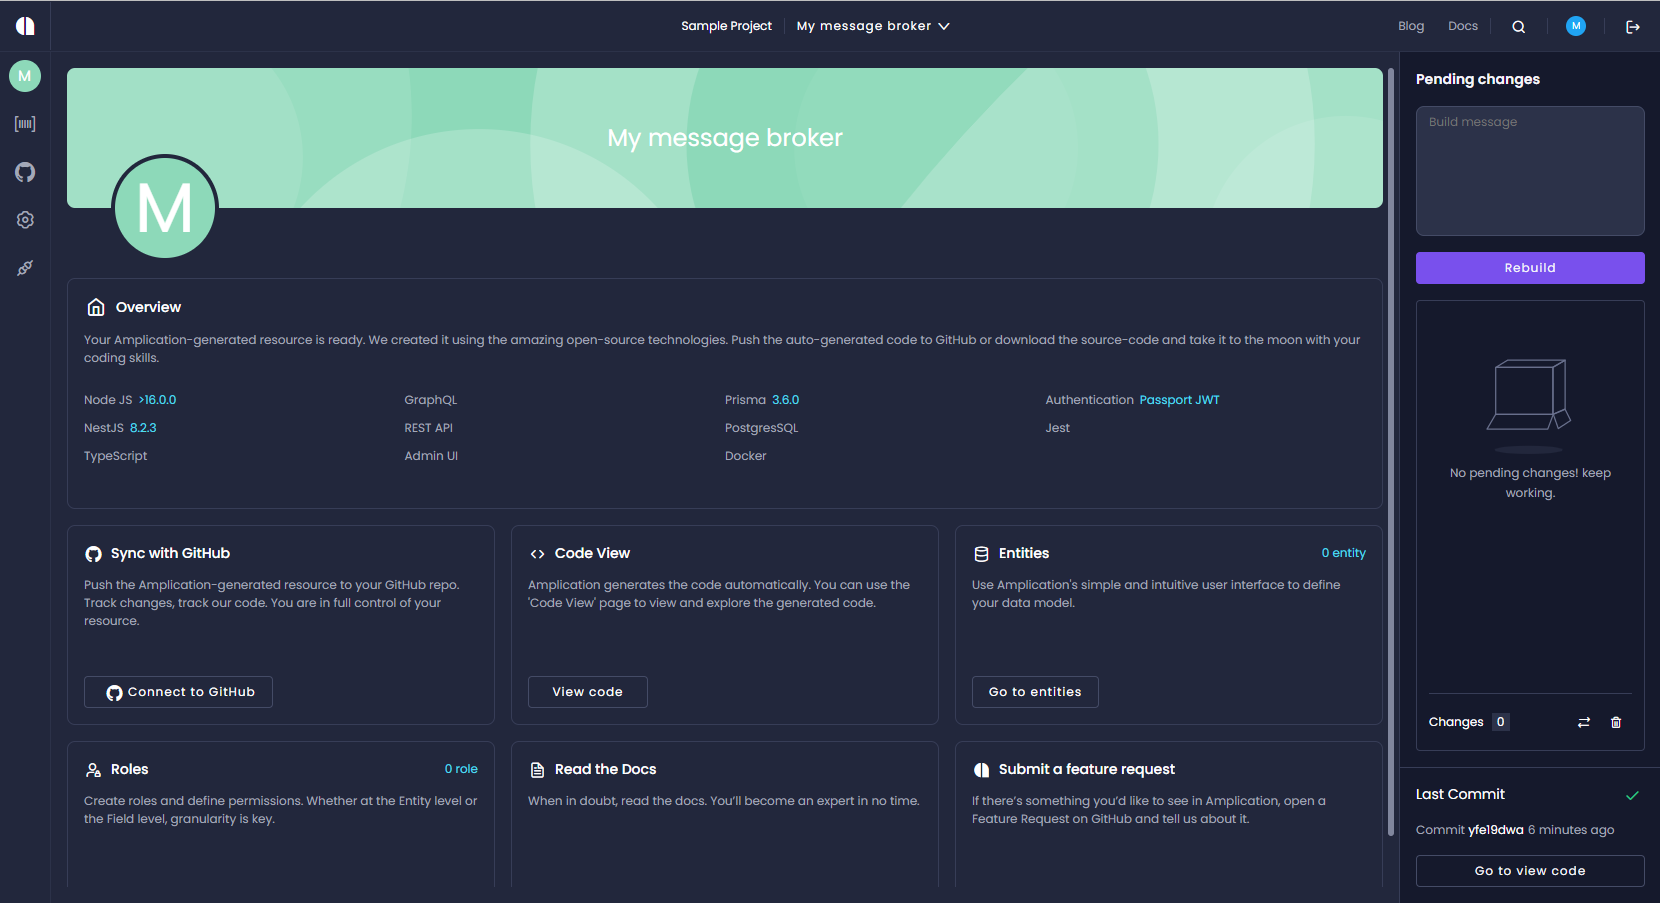
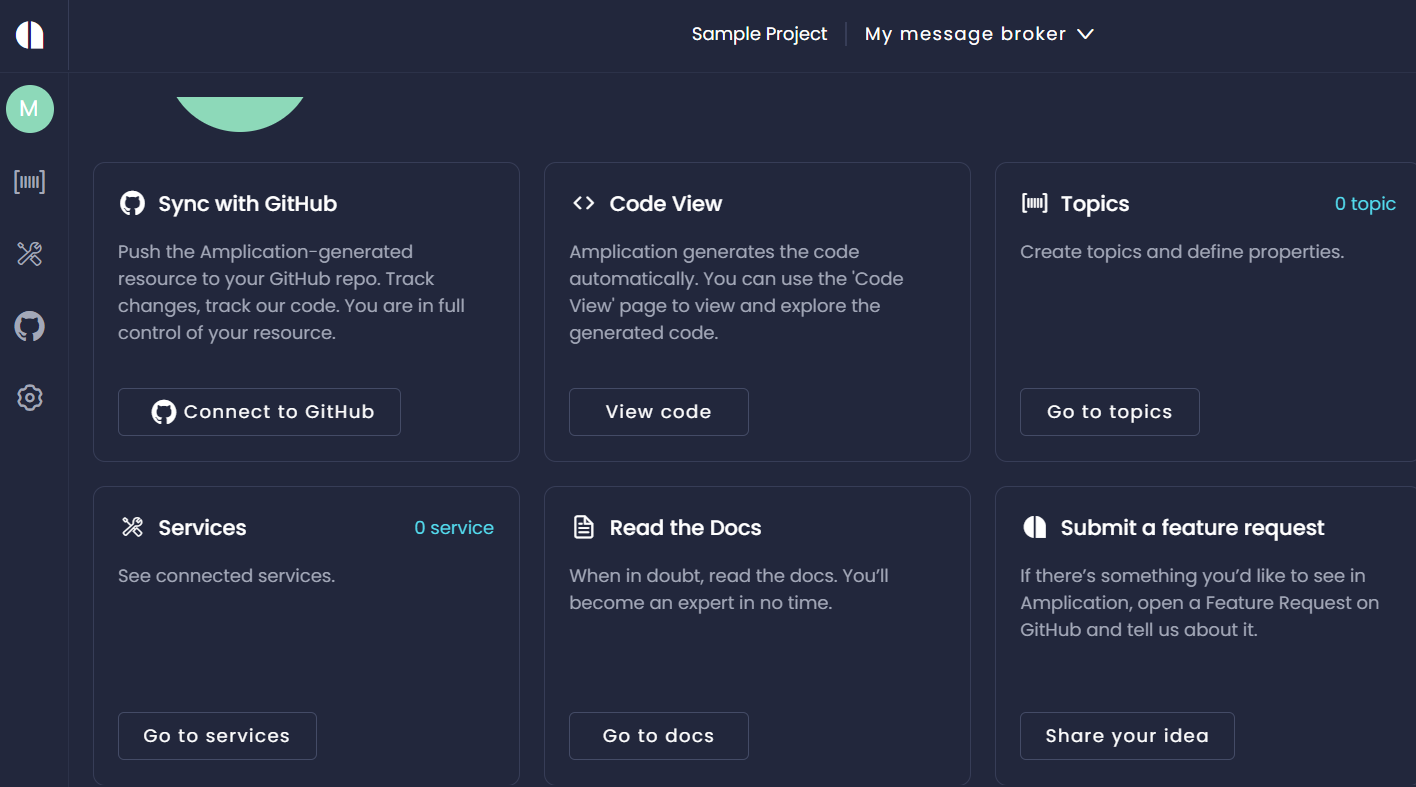
added-service-list

diff --git a/docs/how-to/create-message-broker.md b/docs/how-to/create-message-broker.md
@@ -40,6 +40,17 @@ The configuration dashboard opens.
 
 7. To commit the changes, select **Commit changes & build**. 
 
+## Viewing services related to a message broker
+On the message broker dashboard click Go **to services** or click the **Services** icon on the left of the screen. 
+The **Service List** page opens, with the list of associated services.
+
+## Viewing and activating a message broker
+1. From the **Service** dashboard, click the **Connections** icon on the left of the screen. A list of message brokers is displayed. 
+2. To enable the message broker, select the **enabled** toggle switch. 
+
+
+
+
 
 
 
